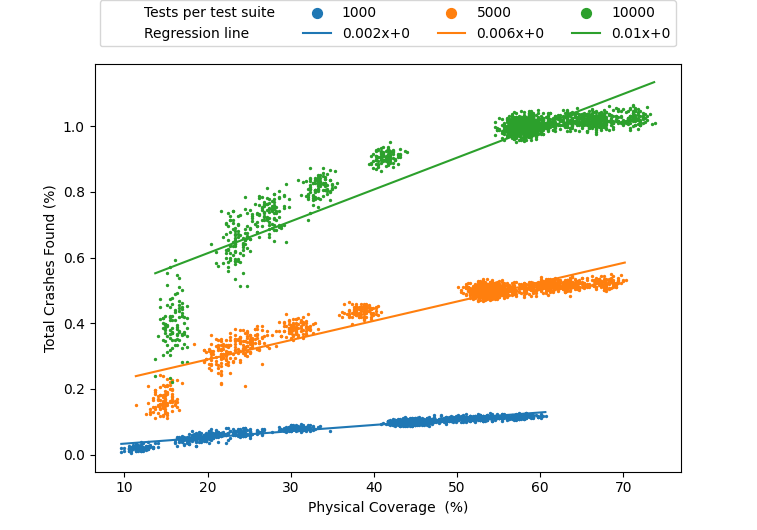
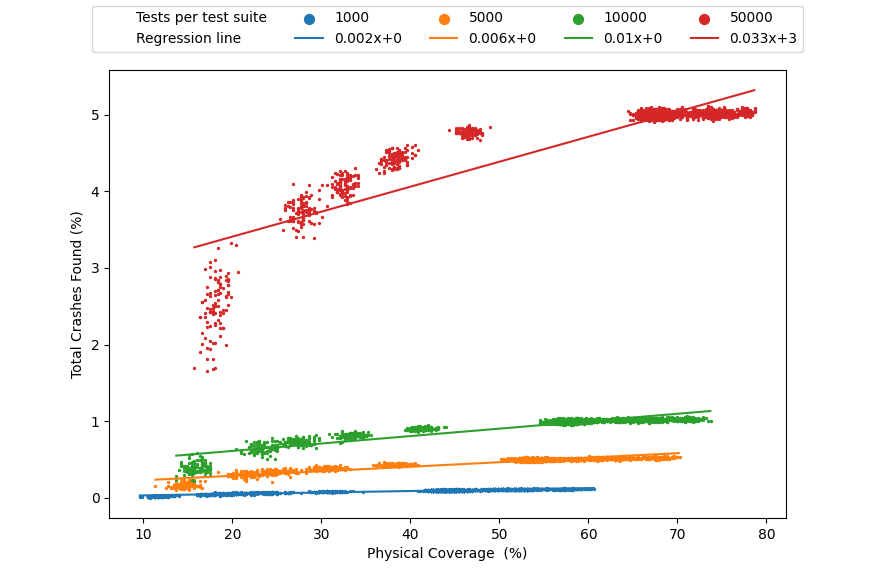
Updated

diff --git a/coverage_analysis/rq3_compute.py b/coverage_analysis/rq3_compute.py
@@ -230,7 +230,7 @@ if args.scenario == "beamng":
     greedy_sample_sizes = [2, 3, 4, 5, 10]
 elif args.scenario == "highway":
     total_random_test_suites = 1000
-    test_suite_size = [1000, 5000, 10000]
+    test_suite_size = [1000, 5000, 10000, 50000]
     total_greedy_test_suites = 100
     greedy_sample_sizes = [2, 3, 4, 5, 10]
 else:

diff --git a/coverage_analysis/rq3_plot.py b/coverage_analysis/rq3_plot.py
@@ -76,7 +76,7 @@ if args.scenario == "beamng":
     greedy_sample_sizes = [2, 3, 4, 5, 10]
 elif args.scenario == "highway":
     total_random_test_suites = 1000
-    test_suite_size = [1000, 5000, 10000]
+    test_suite_size = [1000, 5000, 10000, 50000]
     total_greedy_test_suites = 100
     greedy_sample_sizes = [2, 3, 4, 5, 10]
 else:
